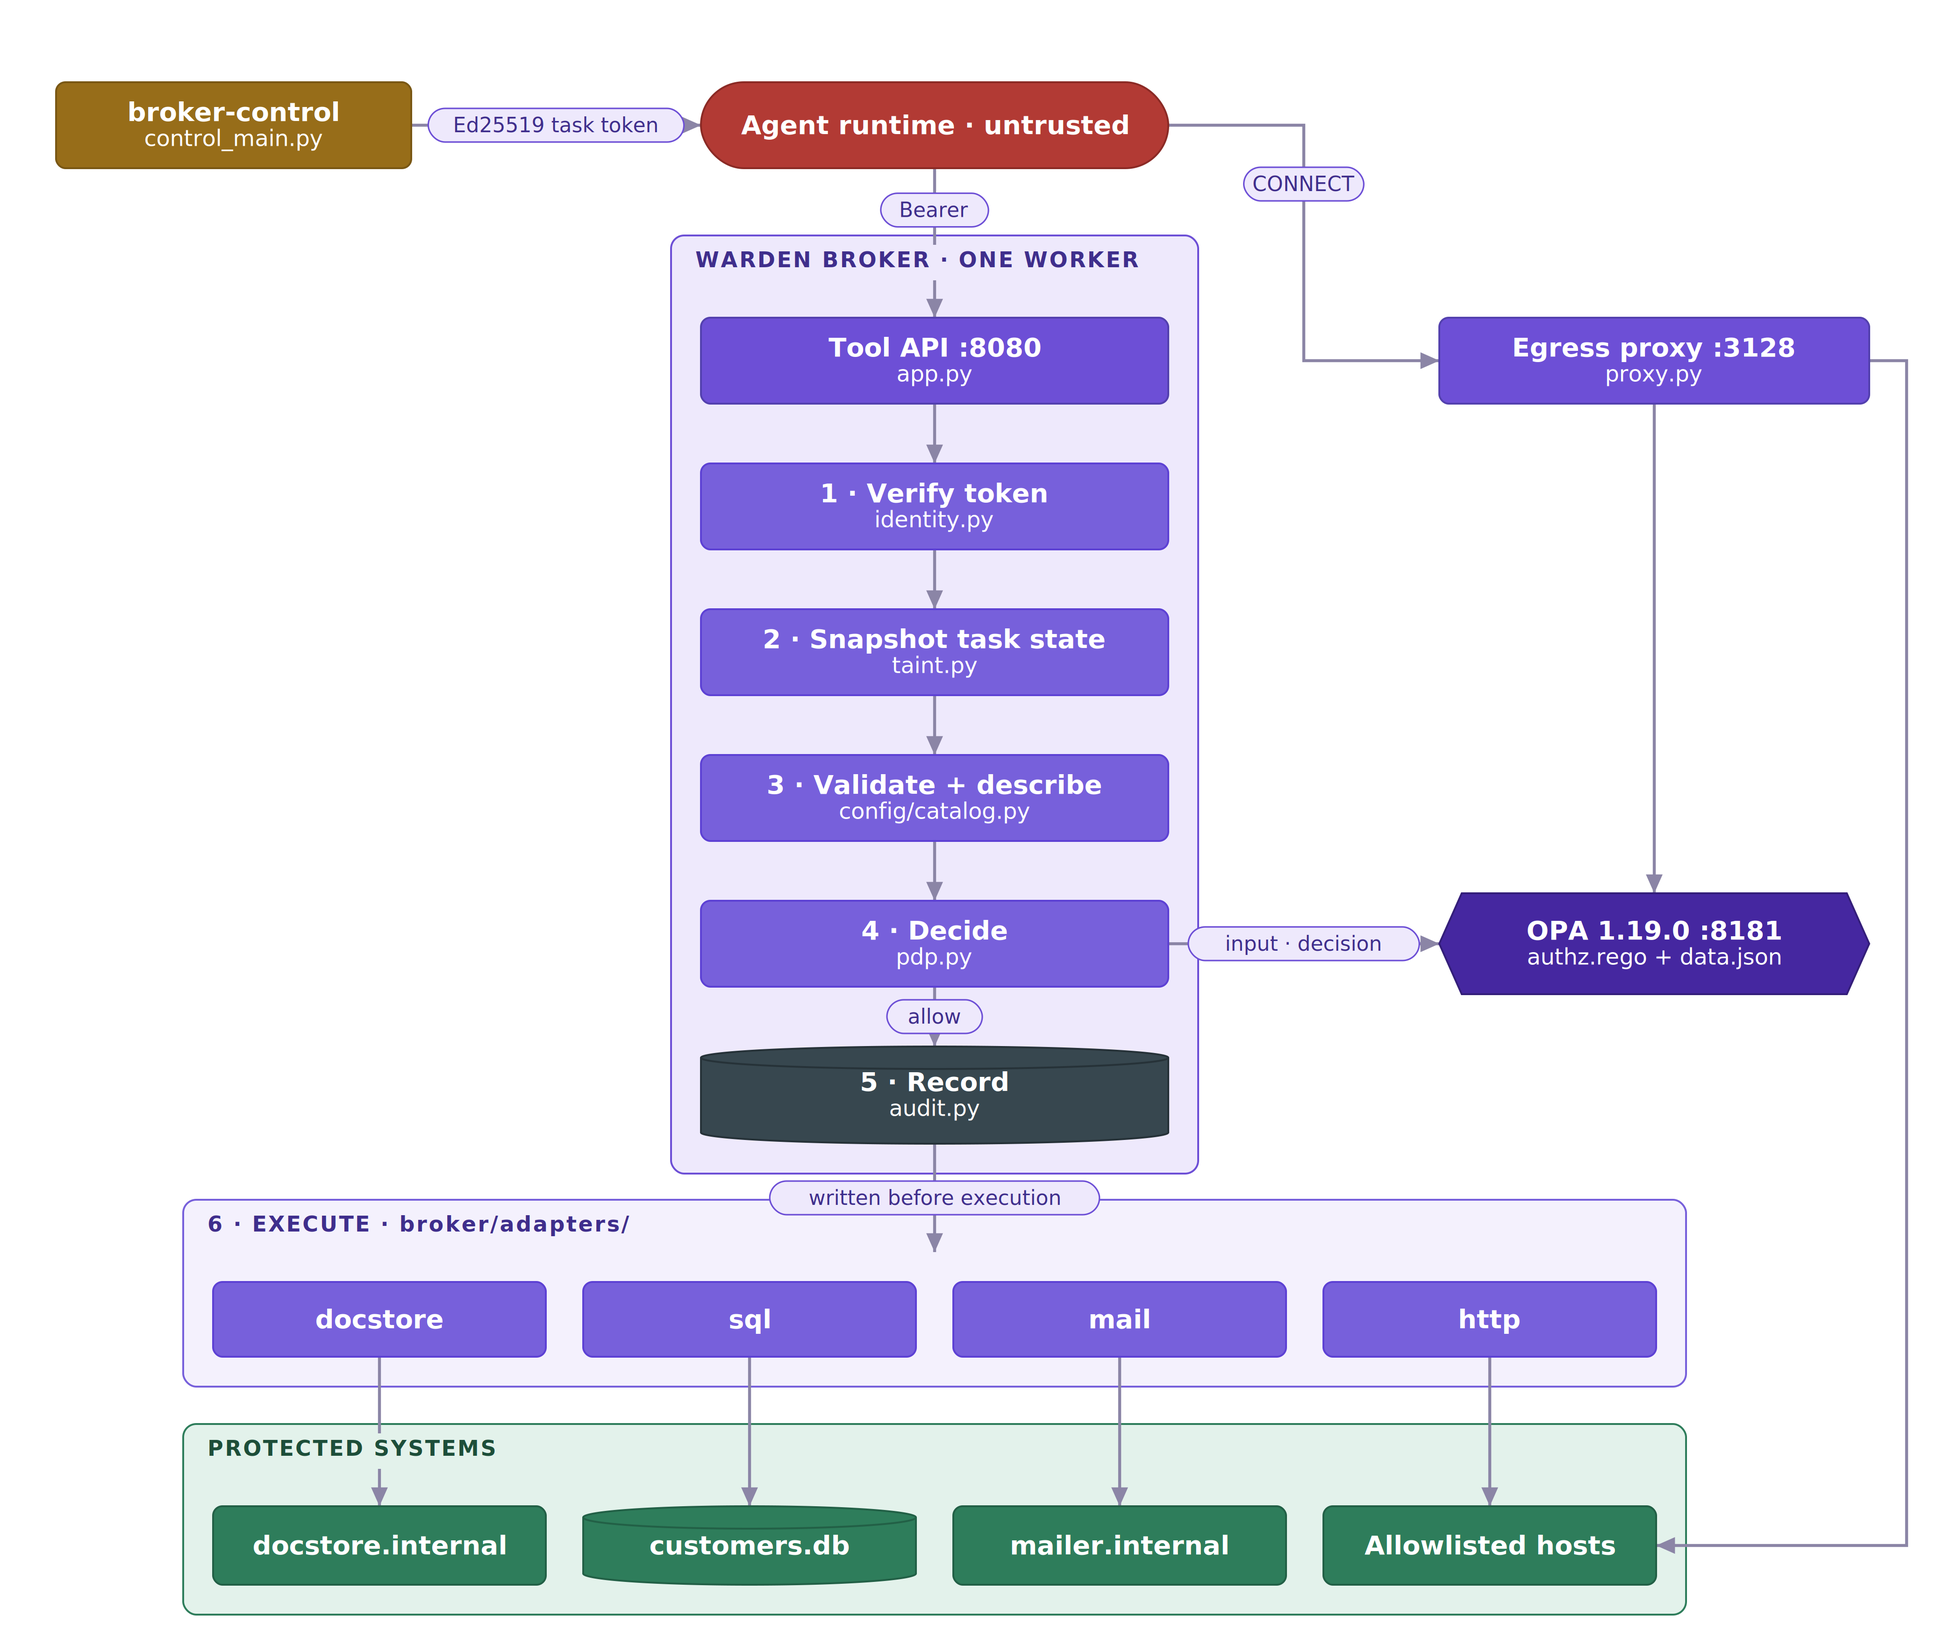
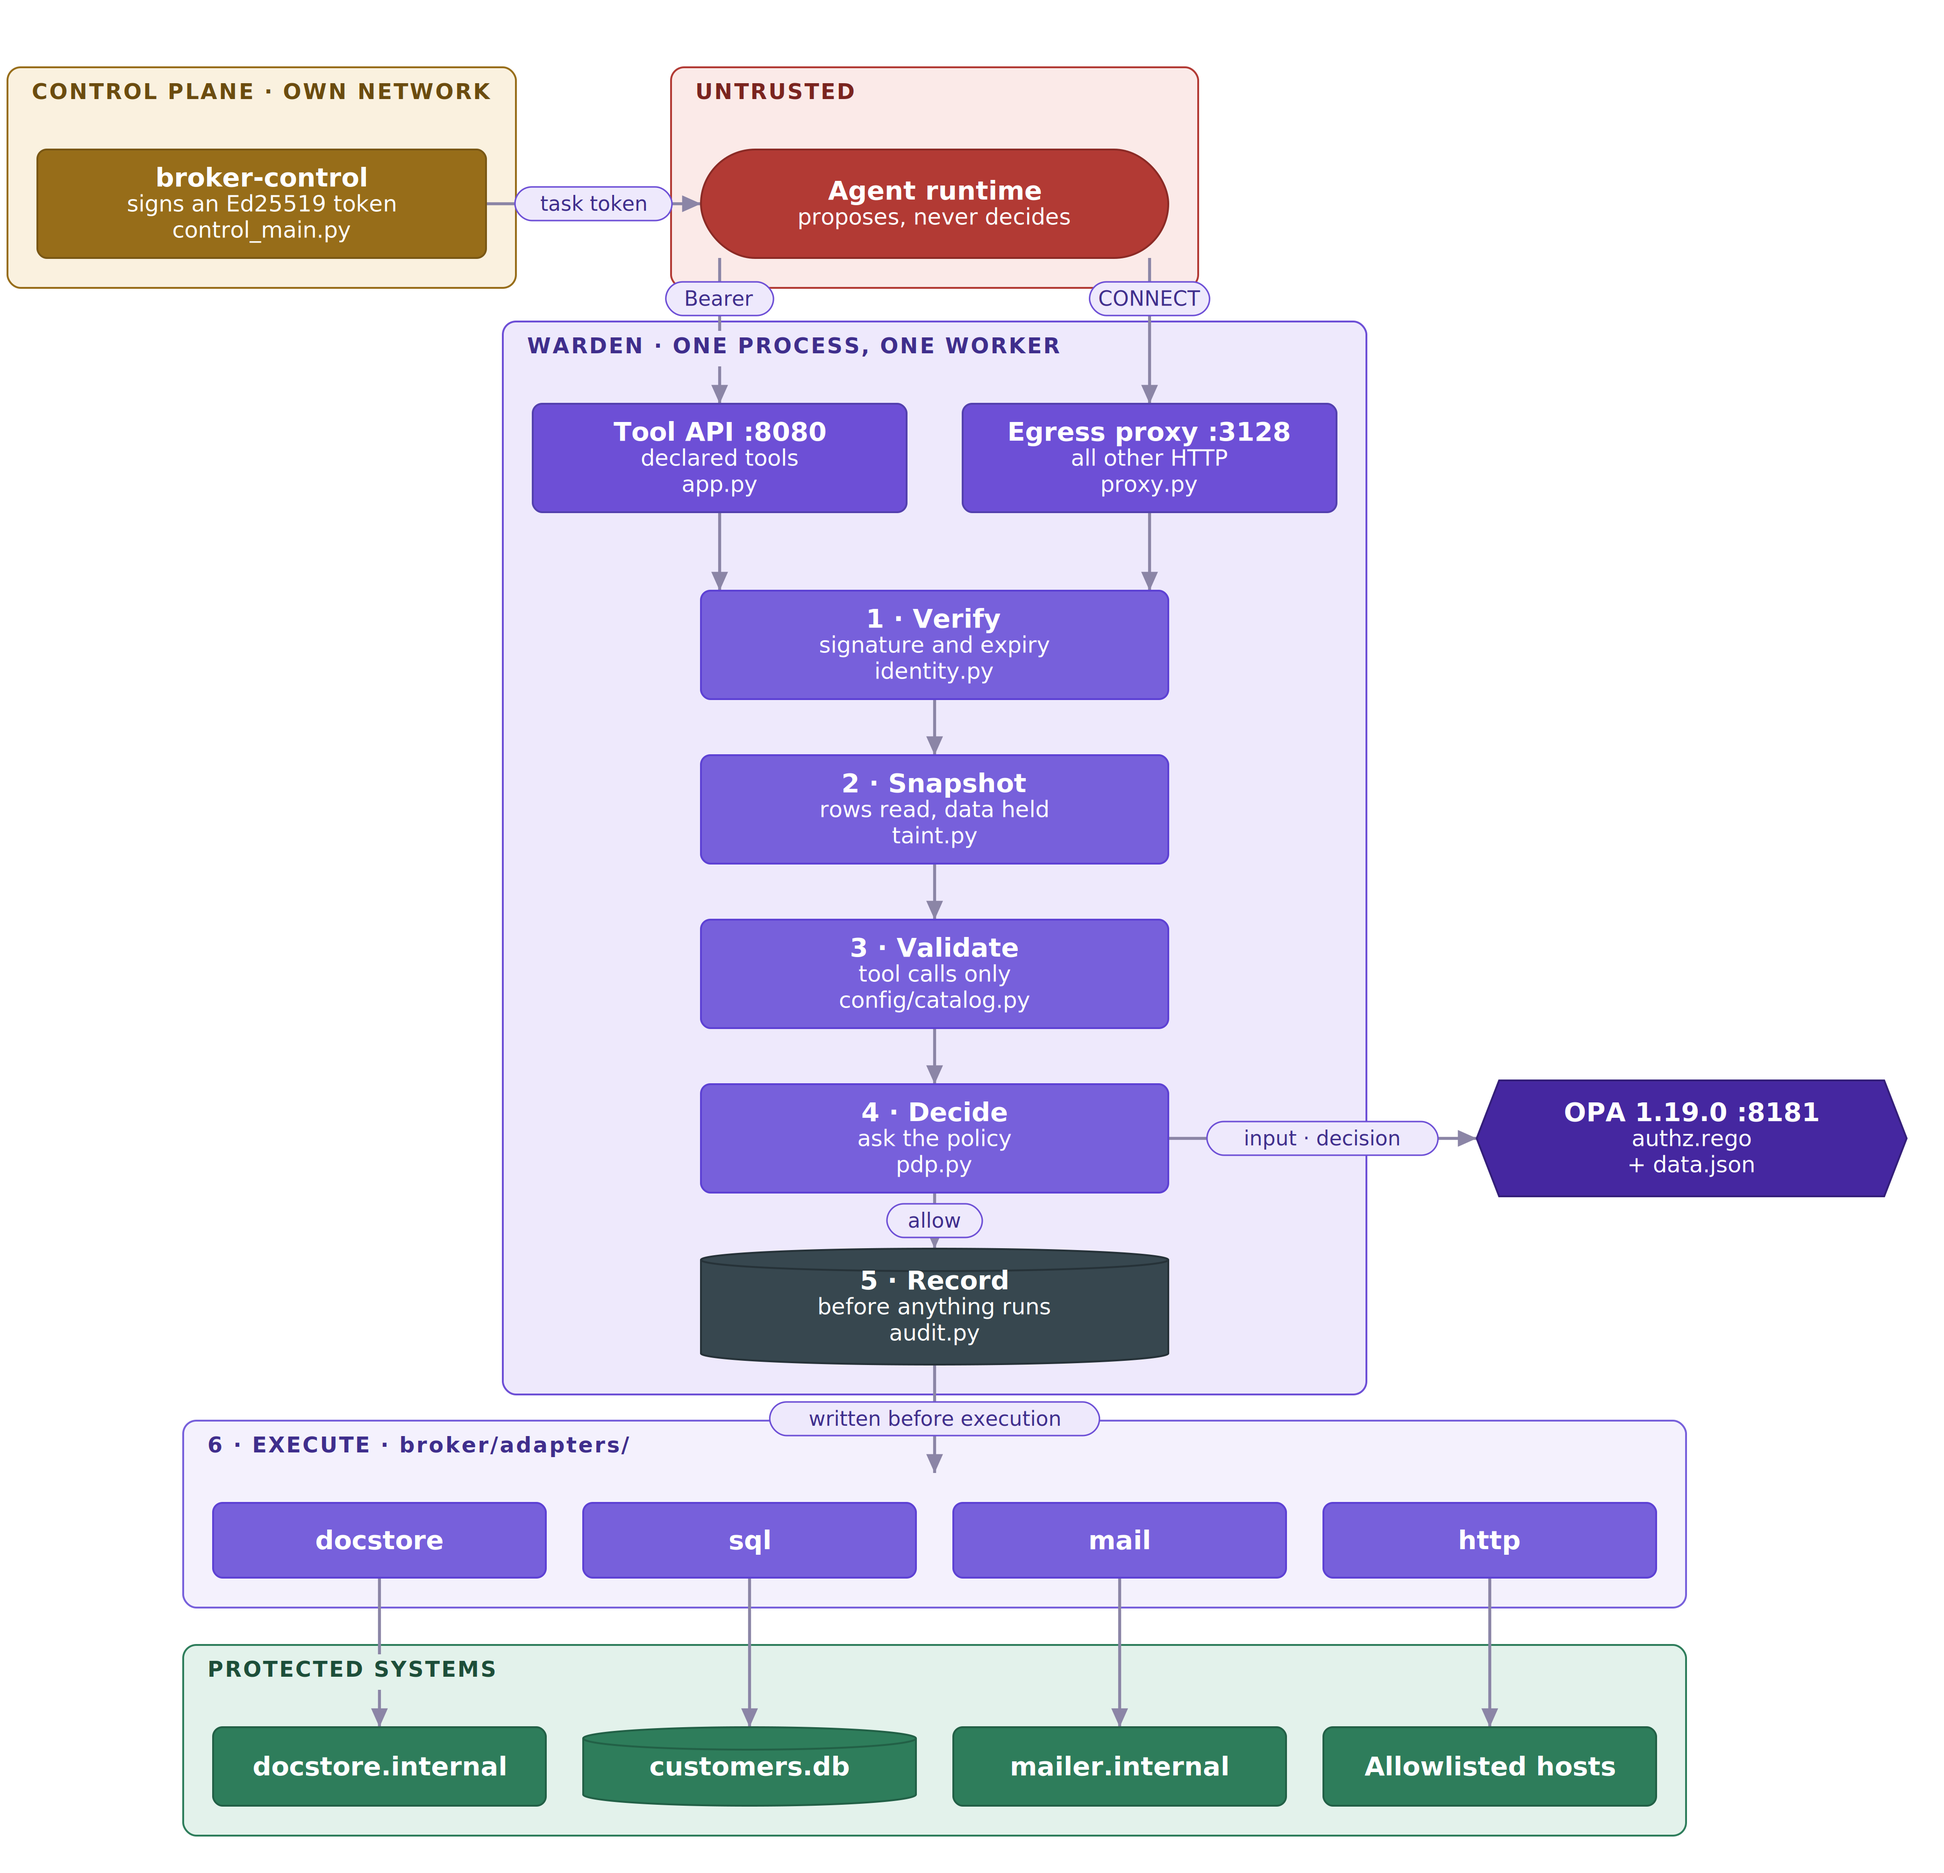
docs: make "How it works" answer who, what and where at every box
Every box now carries three lines: what it is, what it does in plain words,
and the file it lives in. "2 · Snapshot / rows read, data held / taint.py"
instead of a name and a filename with the meaning left to be inferred.

The bigger fix is the egress proxy. It sat outside the broker's zone with its
own arrow to OPA, which asked the reader to wonder whether it has a second
policy. It does not. broker/__main__.py starts both surfaces in one process
and hands the proxy the same verifier, the same PolicyDecisionPoint, the same
TaintTracker and the same AuditLog. Both now sit in one zone, both drop into
step 1, and the zone is named ONE PROCESS, ONE WORKER.

What is genuinely asymmetric is labelled rather than smoothed away: step 3
says "tool calls only", because the proxy builds its target inline from the
CONNECT authority instead of going through an adapter.

Names the two ends too. broker-control gets a zone saying it is on its own
network, and the agent runtime says it proposes and never decides.

The four entry arrows are single straight drops now. Their anchors are
computed from the boxes' own centres rather than guessed at, so edge() cannot
insert the midline jog that four of them had.

Every filename in the diagram was checked against the tree.

Changed region(s): [[0.0, 0.0311, 1.0, 0.9955], [0.7188, 0.1867, 0.9688, 0.2489], [0.6562, 0.0933, 0.6875, 0.1244]]

diff --git a/tools/render_diagrams.py b/tools/render_diagrams.py
@@ -374,31 +374,53 @@ class Diagram:
 
 
 def architecture():
-    d = Diagram(1040, 780, "warden architecture: the request pipeline")
-    CX, bw, bh = 500, 250, 46
+    """Who, what and where, with no step left to be guessed at.
 
-    ctl = d.box(30, 44, 190, 46, ["broker-control", "control_main.py"], "control")
-    client = d.box(CX - bw / 2, 44, bw, 46, ["Agent runtime · untrusted"], "untrusted", "stadium")
+    The earlier version drew the egress proxy outside the broker's zone with
+    its own arrow to OPA, which invited the obvious wrong question: does the
+    proxy have a second policy? It does not. `broker/__main__.py` starts both
+    surfaces in one process and hands the proxy the same verifier, the same
+    PolicyDecisionPoint, the same TaintTracker and the same AuditLog. So both
+    now sit inside one zone and both feed the same spine.
+
+    What is genuinely asymmetric stays labelled rather than smoothed over:
+    step 3 is tool calls only, because the proxy builds its target inline from
+    the CONNECT authority instead of going through an adapter's describe().
+    """
+    d = Diagram(1040, 780, "warden architecture: the request pipeline")
+    CX, bw, bh = 500, 250, 58
+
+    ctl = d.box(20, 80, 240, bh,
+                ["broker-control", "signs an Ed25519 token", "control_main.py"], "control")
+    d.zone("CONTROL PLANE · OWN NETWORK", "control", [ctl])
+    client = d.box(CX - bw / 2, 80, bw, bh,
+                   ["Agent runtime", "proposes, never decides"], "untrusted", "stadium")
+    d.zone("UNTRUSTED", "untrusted", [client])
+
+    # The two surfaces are peers, side by side, and they meet at step 1.
+    api = d.box(CX - 215, 216, 200, bh, ["Tool API :8080", "declared tools", "app.py"],
+                "enforce")
+    proxy = d.box(CX + 15, 216, 200, bh,
+                  ["Egress proxy :3128", "all other HTTP", "proxy.py"], "enforce")
 
     stages = [
-        (["Tool API  :8080", "app.py"], "enforce"),
-        (["1 · Verify token", "identity.py"], "plumbing"),
-        (["2 · Snapshot task state", "taint.py"], "plumbing"),
-        (["3 · Validate + describe", "config/catalog.py"], "plumbing"),
-        (["4 · Decide", "pdp.py"], "plumbing"),
+        (["1 · Verify", "signature and expiry", "identity.py"]),
+        (["2 · Snapshot", "rows read, data held", "taint.py"]),
+        (["3 · Validate", "tool calls only", "config/catalog.py"]),
+        (["4 · Decide", "ask the policy", "pdp.py"]),
     ]
-    pipe, y = [], 170
-    for lines, kind in stages:
-        pipe.append(d.box(CX - bw / 2, y, bw, bh, lines, kind))
-        y += bh + 32
-    aud = d.box(CX - bw / 2, y, bw, 52, ["5 · Record", "audit.py"], "store", "store")
-    api, ident, taint, cat, pdp = pipe
+    pipe, y = [], 316
+    for lines in stages:
+        pipe.append(d.box(CX - bw / 2, y, bw, bh, lines, "plumbing"))
+        y += bh + 30
+    ident, taint, cat, pdp = pipe
+    aud = d.box(CX - bw / 2, y, bw, 62,
+                ["5 · Record", "before anything runs", "audit.py"], "store", "store")
 
-    proxy = d.box(770, 170, 230, bh, ["Egress proxy  :3128", "proxy.py"], "enforce")
-    opa = d.box(770, pdp.cy - 27, 230, 54, ["OPA 1.19.0  :8181", "authz.rego + data.json"],
-                "core", "hex")
+    opa = d.box(790, pdp.cy - 31, 230, 62,
+                ["OPA 1.19.0 :8181", "authz.rego", "+ data.json"], "core", "hex")
 
-    d.zone("WARDEN BROKER · ONE WORKER", "enforce", [*pipe, aud])
+    d.zone("WARDEN · ONE PROCESS, ONE WORKER", "enforce", [api, proxy, *pipe, aud])
 
     ay = aud.bottom + 74
     names = ["docstore", "sql", "mail", "http"]
@@ -413,23 +435,33 @@ def architecture():
     d.zone("6 · EXECUTE · broker/adapters/", "plumbing", ad)
     d.zone("PROTECTED SYSTEMS", "target", tg)
 
-    d.edge(ctl.at("right"), client.at("left"), src=ctl, dst=client, label="Ed25519 task token")
-    d.edge(client.at("bottom"), api.at("top"), src=client, dst=api, label="Bearer",
-           label_t=0.28)
+    d.edge(ctl.at("right"), client.at("left"), src=ctl, dst=client, label="task token")
+
+    # Both surfaces drop straight down into step 1: same verifier, same taint
+    # tracker, same policy, same log. Drawn as two parallel feeds rather than
+    # one shared line, because they are two listeners.
+    # 0.04 and 0.96 are not arbitrary: they put the anchor exactly under each
+    # surface's centre line, so all four feeds are single straight drops. Any
+    # other fraction makes edge() insert a midline jog, and four little jogs
+    # right under the zone title is the first thing the eye lands on.
+    LEFT, RIGHT = (api.cx - client.x) / client.w, (proxy.cx - client.x) / client.w
+    d.edge(client.at("bottom", LEFT), api.at("top"), src=client, dst=api,
+           label="Bearer", label_t=0.28)
+    d.edge(client.at("bottom", RIGHT), proxy.at("top"), src=client, dst=proxy,
+           label="CONNECT", label_t=0.28)
+    d.edge(api.at("bottom"), ident.at("top", (api.cx - ident.x) / ident.w),
+           src=api, dst=ident)
+    d.edge(proxy.at("bottom"), ident.at("top", (proxy.cx - ident.x) / ident.w),
+           src=proxy, dst=ident)
+
     for a, b in zip(pipe, pipe[1:]):
         d.edge(a.at("bottom"), b.at("top"), src=a, dst=b)
     d.edge(pdp.at("bottom"), aud.at("top"), src=pdp, dst=aud, label="allow")
-    d.edge(client.at("right"), proxy.at("left"), src=client, dst=proxy,
-           bend="h", label="CONNECT", label_t=0.25)
-    d.edge(proxy.at("bottom"), opa.at("top"), src=proxy, dst=opa)
     d.edge(pdp.at("right"), opa.at("left"), src=pdp, dst=opa, label="input · decision")
     d.edge(aud.at("bottom"), (CX, ad[0].y - ZONE_PAD), src=aud,
            label="written before execution")
     for a, t in zip(ad, tg):
         d.edge(a.at("bottom"), t.at("top"), src=a, dst=t)
-    ext = tg[3]
-    d.route([proxy.at("right"), (1020, proxy.cy), (1020, ext.cy), (ext.right, ext.cy)],
-            src=proxy, dst=ext)
     d.fit()
     return d
 
